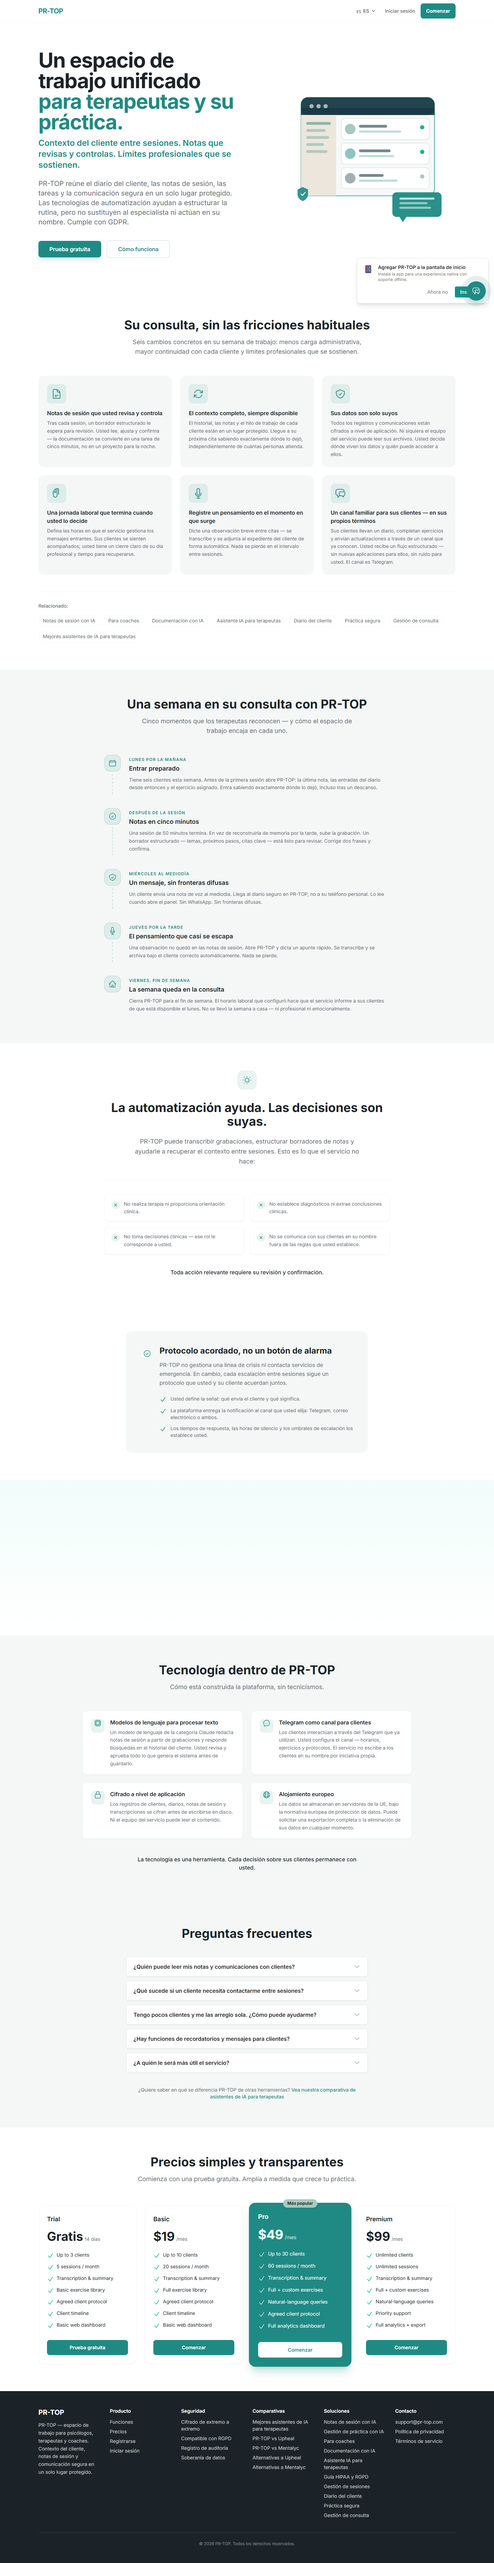
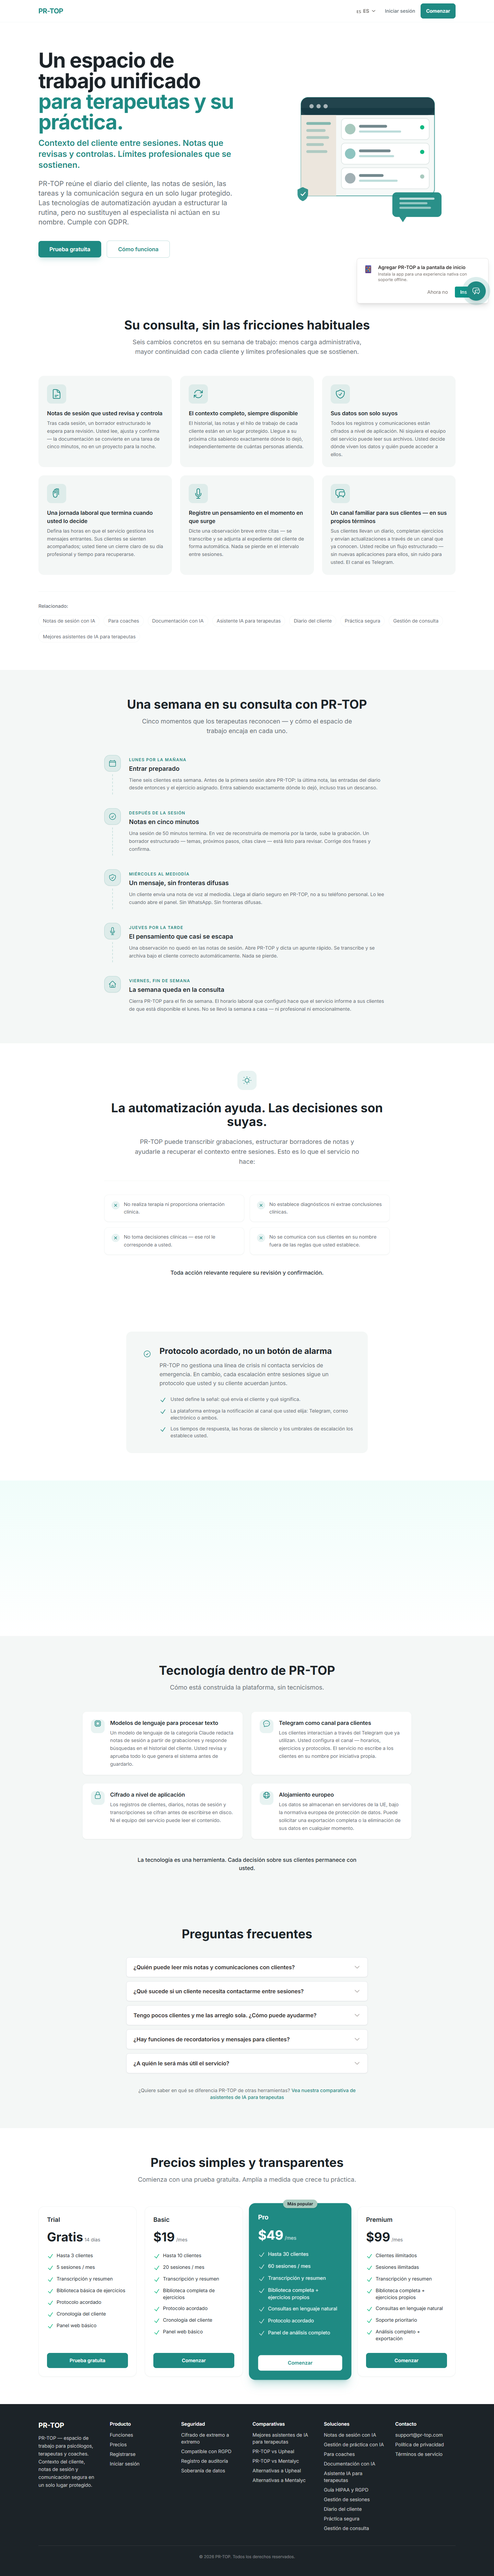
chore: rename screenshot helper to _t_screenshots.js + refresh review screenshots after R11
Renames take-screenshots.js to follow the _t*.js test-harness convention and
updates its header (no R10 coupling; documents re-run-after-copy-change usage).
Re-captures all 4 locale screenshots so the human copy review sees the
localized pricing cards from feature #459 (R11).

diff --git a/_t_screenshots.js b/_t_screenshots.js
@@ -1,6 +1,8 @@
 /**
- * R10 screenshots: full-page PNG for all 4 locales
- * Saves to docs/seo/reports/repositioning-screens/
+ * Repositioning review screenshots: full-page PNG for all 4 locales (EN/RU/ES/UK).
+ * Saves to docs/seo/reports/repositioning-screens/ — re-run after any landing copy
+ * change so the mandatory human copy review sees the current state.
+ * Usage: node _t_screenshots.js (serves the existing dist/ via vite preview; build first).
  */
 const puppeteer = require('puppeteer');
 const path = require('path');
